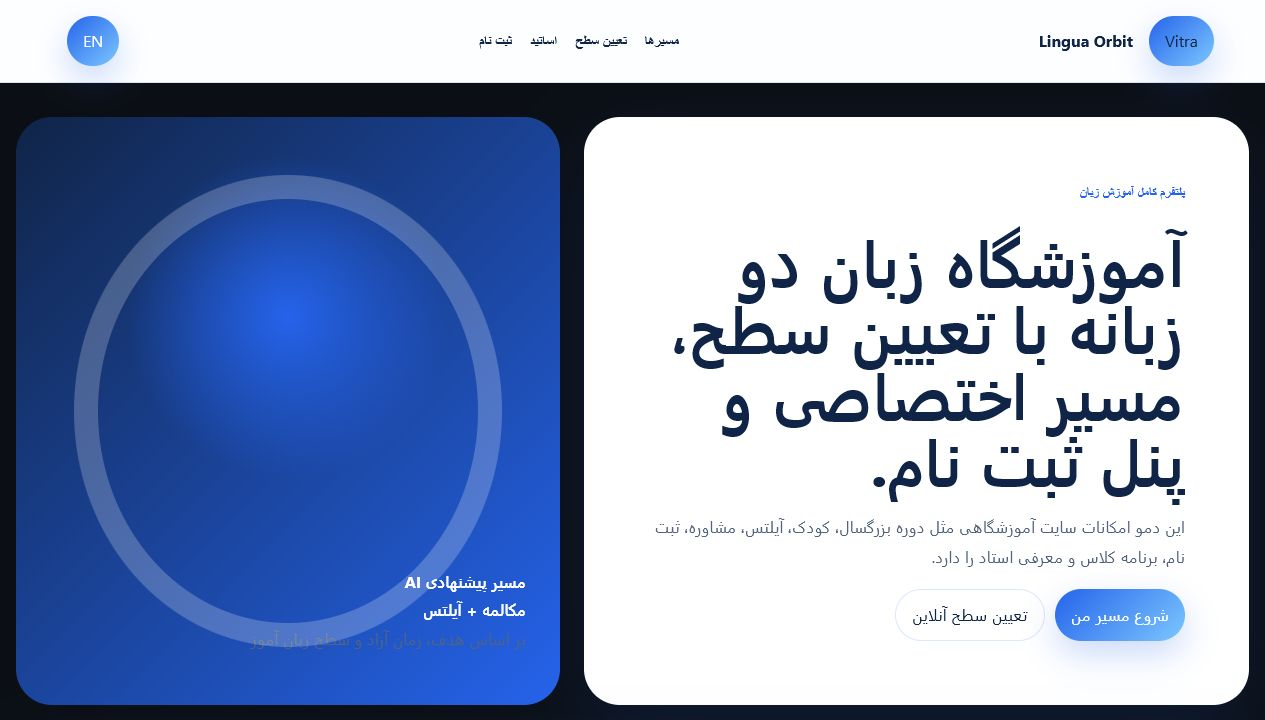
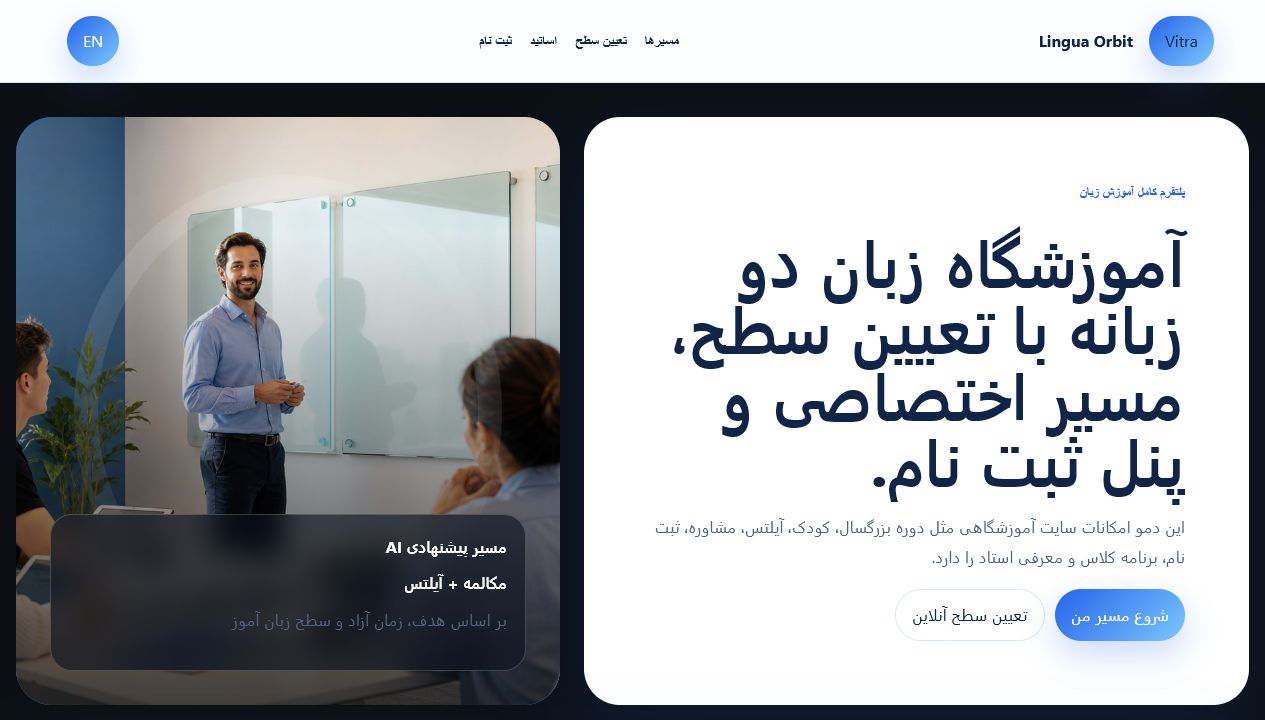
Add files via upload

diff --git a/demo-suite.css b/demo-suite.css
@@ -733,6 +733,109 @@
   display: none !important;
 }
 
+/* Real photographic assets for completed demos */
+.photo-card,
+.campus-visual,
+.salon-map,
+.salon-shot,
+.clinic-visual-panel,
+.lookbook-visual,
+.order-track-mini {
+  position: relative;
+  overflow: hidden;
+}
+
+.photo-card img,
+.campus-visual img,
+.salon-map img,
+.salon-shot img,
+.clinic-visual-panel img,
+.lookbook-visual img,
+.order-track-mini img {
+  position: absolute;
+  inset: 0;
+  display: block;
+  width: 100%;
+  height: 100%;
+  object-fit: cover;
+  object-position: center;
+}
+
+.photo-card::after,
+.campus-visual::after,
+.salon-map::after,
+.salon-shot::after,
+.clinic-visual-panel::after,
+.lookbook-visual::after,
+.order-track-mini::after {
+  content: "";
+  position: absolute;
+  inset: 0;
+  z-index: 1;
+  background: linear-gradient(180deg, rgba(0,0,0,0.04) 20%, rgba(0,0,0,0.72));
+  pointer-events: none;
+}
+
+.photo-caption,
+.campus-visual span,
+.salon-map span,
+.salon-map i,
+.clinic-visual-panel span,
+.lookbook-visual span,
+.order-track-mini > *:not(img) {
+  position: relative;
+  z-index: 2;
+}
+
+.photo-caption {
+  display: grid;
+  gap: 8px;
+  padding: 18px;
+  border-radius: 22px;
+  background: rgba(8, 15, 28, 0.58);
+  border: 1px solid rgba(255,255,255,0.18);
+  backdrop-filter: blur(14px);
+}
+
+.orbit-ring {
+  z-index: 1;
+  opacity: 0.58;
+}
+
+.salon-shot {
+  min-height: 190px;
+}
+
+.salon-shot.shot-b img {
+  transform: scale(1.08) translateX(8%);
+}
+
+.salon-shot.shot-c img {
+  transform: scale(1.14) translateY(-6%);
+}
+
+.order-track-mini {
+  min-height: 430px;
+  display: grid;
+  align-content: end;
+  color: white;
+}
+
+.order-track-mini input {
+  color: var(--ink);
+  background: rgba(255,255,255,0.92);
+}
+
+.campus-visual span,
+.clinic-visual-panel span,
+.lookbook-visual span {
+  padding: 10px 14px;
+  border-radius: 999px;
+  background: rgba(0,0,0,0.52);
+  border: 1px solid rgba(255,255,255,0.18);
+  backdrop-filter: blur(12px);
+}
+
 @media (max-width: 900px) {
   .suite-nav,
   .suite-hero,

diff --git a/demo-academy.html b/demo-academy.html
@@ -32,11 +32,10 @@
             <button class="ghost" data-scroll="#level" data-fa="تعیین سطح آنلاین" data-en="Online level test">تعیین سطح آنلاین</button>
           </div>
         </div>
-        <aside class="academy-orbit-card">
+        <aside class="academy-orbit-card photo-card">
+          <img src="assets/academy-hero-photo.png" alt="کلاس مدرن آموزشگاه زبان" />
           <div class="orbit-ring"></div>
-          <b data-fa="مسیر پیشنهادی AI" data-en="AI suggested path">مسیر پیشنهادی AI</b>
-          <strong data-fa="مکالمه + آیلتس" data-en="Speaking + IELTS">مکالمه + آیلتس</strong>
-          <p data-fa="بر اساس هدف، زمان آزاد و سطح زبان آموز" data-en="Based on goal, free time and current level">بر اساس هدف، زمان آزاد و سطح زبان آموز</p>
+          <div class="photo-caption"><b data-fa="مسیر پیشنهادی AI" data-en="AI suggested path">مسیر پیشنهادی AI</b><strong data-fa="مکالمه + آیلتس" data-en="Speaking + IELTS">مکالمه + آیلتس</strong><p data-fa="بر اساس هدف، زمان آزاد و سطح زبان آموز" data-en="Based on goal, free time and current level">بر اساس هدف، زمان آزاد و سطح زبان آموز</p></div>
         </aside>
       </section>
 
@@ -120,6 +119,7 @@
           </div>
         </div>
         <div class="campus-visual academy-photo">
+          <img src="assets/academy-hero-photo.png" alt="فضای کلاس هوشمند آموزشگاه" />
           <span data-fa="کلاس هوشمند" data-en="Smart classroom">کلاس هوشمند</span>
         </div>
       </section>

diff --git a/demo-shop.html b/demo-shop.html
@@ -26,6 +26,7 @@
           <h1 data-fa="فروشگاه پوشاک با دسته بندی، فیلتر، رنگ، مشاهده سریع، سبد و پیگیری سفارش." data-en="Fashion store with categories, filters, colors, quick view, cart and order tracking.">فروشگاه پوشاک با دسته بندی، فیلتر، رنگ، مشاهده سریع، سبد و پیگیری سفارش.</h1>
         </div>
         <div class="order-track-mini">
+          <img src="assets/shop-hero-photo.png" alt="کمپین فروشگاه پوشاک" />
           <b data-fa="پیگیری سریع سفارش" data-en="Quick order tracking">پیگیری سریع سفارش</b>
           <input data-order-code placeholder="ML-2048" />
           <button data-track-order data-fa="پیگیری" data-en="Track">پیگیری</button>
@@ -74,6 +75,7 @@
           <div class="size-row"><button>36</button><button>38</button><button>40</button><button>42</button></div>
         </div>
         <div class="lookbook-visual">
+          <img src="assets/shop-hero-photo.png" alt="لوکبوک فروشگاه پوشاک" />
           <span>Winter Drop</span>
         </div>
       </section>

diff --git a/demo-salon.html b/demo-salon.html
@@ -46,6 +46,7 @@
 
       <section class="suite-section salon-results" id="venues">
         <aside class="salon-map">
+          <img src="assets/salon-hero-photo.png" alt="فضای سالن زیبایی مدرن" />
           <span data-fa="نقشه زنده" data-en="Live map">نقشه زنده</span>
           <i></i><i></i><i></i>
         </aside>
@@ -80,9 +81,9 @@
 
       <section class="suite-section salon-editorial">
         <div class="salon-photo-wall">
-          <div class="salon-shot shot-a"></div>
-          <div class="salon-shot shot-b"></div>
-          <div class="salon-shot shot-c"></div>
+          <div class="salon-shot shot-a"><img src="assets/salon-hero-photo.png" alt="گالری سالن زیبایی" /></div>
+          <div class="salon-shot shot-b"><img src="assets/salon-hero-photo.png" alt="اتاق خدمات زیبایی" /></div>
+          <div class="salon-shot shot-c"><img src="assets/salon-hero-photo.png" alt="میز آرایش و مراقبت پوست" /></div>
         </div>
         <div>
           <h2 data-fa="صفحه اختصاصی هر سالن" data-en="Dedicated page for each salon">صفحه اختصاصی هر سالن</h2>

diff --git a/demo-clinic.html b/demo-clinic.html
@@ -64,6 +64,7 @@
 
       <section class="suite-section clinic-real-sections">
         <div class="clinic-visual-panel">
+          <img src="assets/clinic-hero-photo.png" alt="کلینیک دندانپزشکی مدرن" />
           <span data-fa="اتاق معاینه دیجیتال" data-en="Digital exam room">اتاق معاینه دیجیتال</span>
         </div>
         <div>
